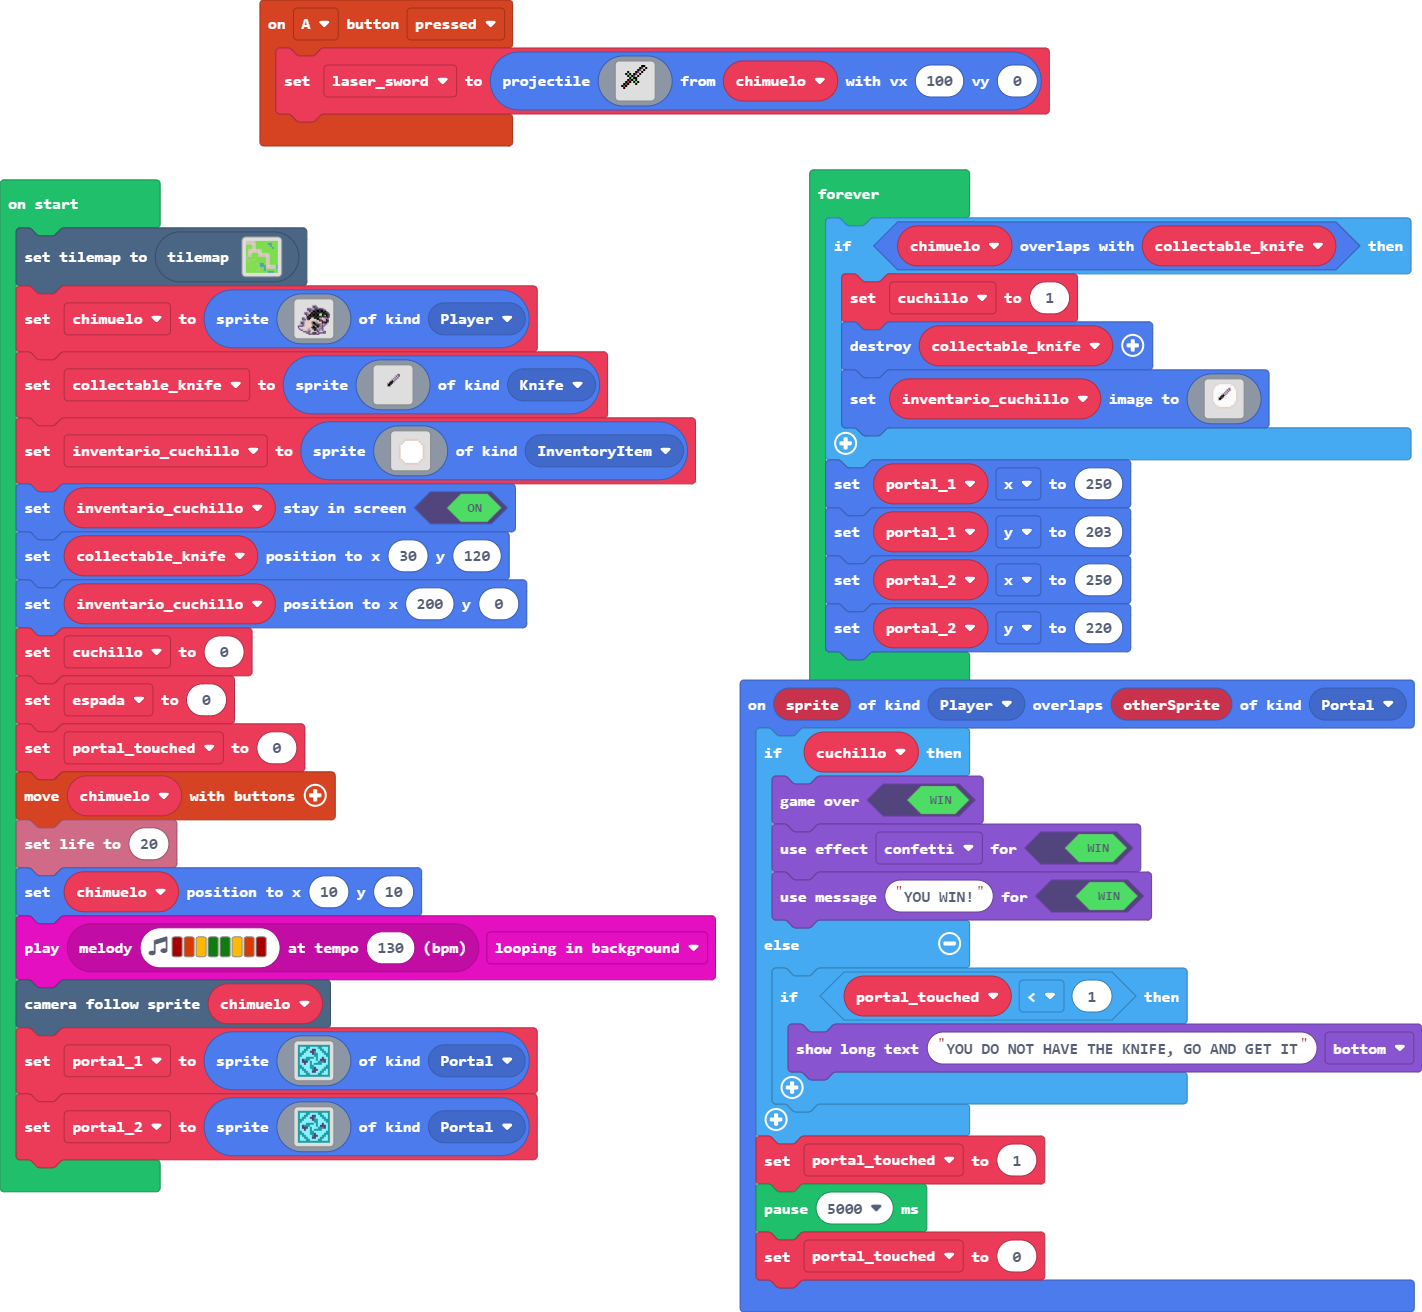
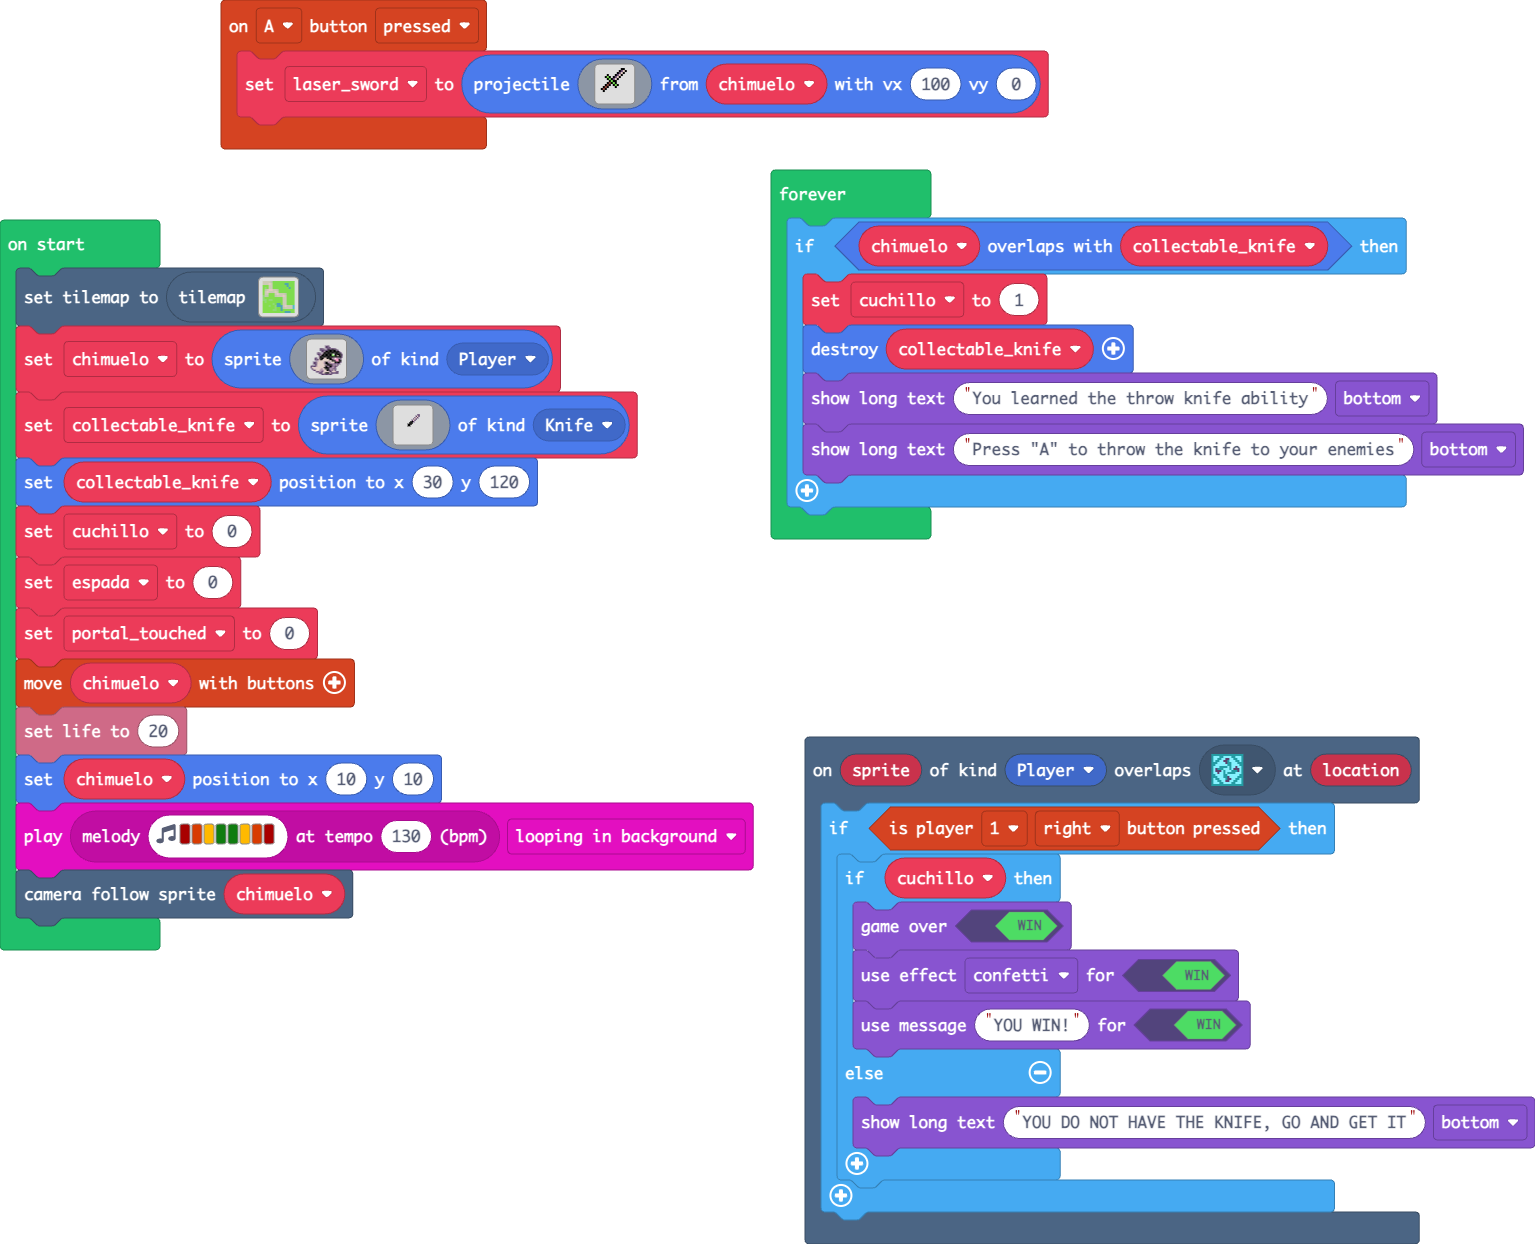
Actualiza condiciones para tomar cuchillo y terminar juego

diff --git a/main.ts b/main.ts
@@ -23,22 +23,18 @@ controller.A.onEvent(ControllerButtonEvent.Pressed, function () {
         . . . . . . . . . . . . . . . . 
         `, chimuelo, 100, 0)
 })
-sprites.onOverlap(SpriteKind.Player, SpriteKind.Portal, function (sprite, otherSprite) {
-    if (cuchillo) {
-        game.gameOver(true)
-        game.setGameOverEffect(true, effects.confetti)
-        game.setGameOverMessage(true, "YOU WIN!")
-    } else {
-        if (portal_touched < 1) {
+scene.onOverlapTile(SpriteKind.Player, sprites.dungeon.collectibleInsignia, function (sprite, location) {
+    if (controller.player1.isPressed(ControllerButton.Right)) {
+        if (cuchillo) {
+            game.gameOver(true)
+            game.setGameOverEffect(true, effects.confetti)
+            game.setGameOverMessage(true, "YOU WIN!")
+        } else {
             game.showLongText("YOU DO NOT HAVE THE KNIFE, GO AND GET IT", DialogLayout.Bottom)
         }
     }
-    portal_touched = 1
-    pause(5000)
-    portal_touched = 0
 })
 let laser_sword: Sprite = null
-let portal_touched = 0
 let cuchillo = 0
 let chimuelo: Sprite = null
 tiles.setCurrentTilemap(tilemap`level2`)
@@ -94,28 +90,20 @@ let collectable_knife = sprites.create(img`
     ........................
     ........................
     `, SpriteKind.Knife)
-let inventario_cuchillo = sprites.create(assets.image`empty_inventory`, SpriteKind.InventoryItem)
-inventario_cuchillo.setStayInScreen(true)
 collectable_knife.setPosition(30, 120)
-inventario_cuchillo.setPosition(200, 0)
 cuchillo = 0
 let espada = 0
-portal_touched = 0
+let portal_touched = 0
 controller.moveSprite(chimuelo)
 info.setLife(20)
 chimuelo.setPosition(10, 10)
 music.play(music.stringPlayable("C5 B A G G A B C5 ", 130), music.PlaybackMode.LoopingInBackground)
 scene.cameraFollowSprite(chimuelo)
-let portal_1 = sprites.create(assets.image`portal`, SpriteKind.Portal)
-let portal_2 = sprites.create(assets.image`portal`, SpriteKind.Portal)
 forever(function () {
     if (chimuelo.overlapsWith(collectable_knife)) {
         cuchillo = 1
         sprites.destroy(collectable_knife)
-        inventario_cuchillo.setImage(assets.image`inventory_knife`)
+        game.showLongText("You learned the throw knife ability", DialogLayout.Bottom)
+        game.showLongText("Press \"A\" to throw the knife to your enemies", DialogLayout.Bottom)
     }
-    portal_1.x = 250
-    portal_1.y = 203
-    portal_2.x = 250
-    portal_2.y = 220
 })
